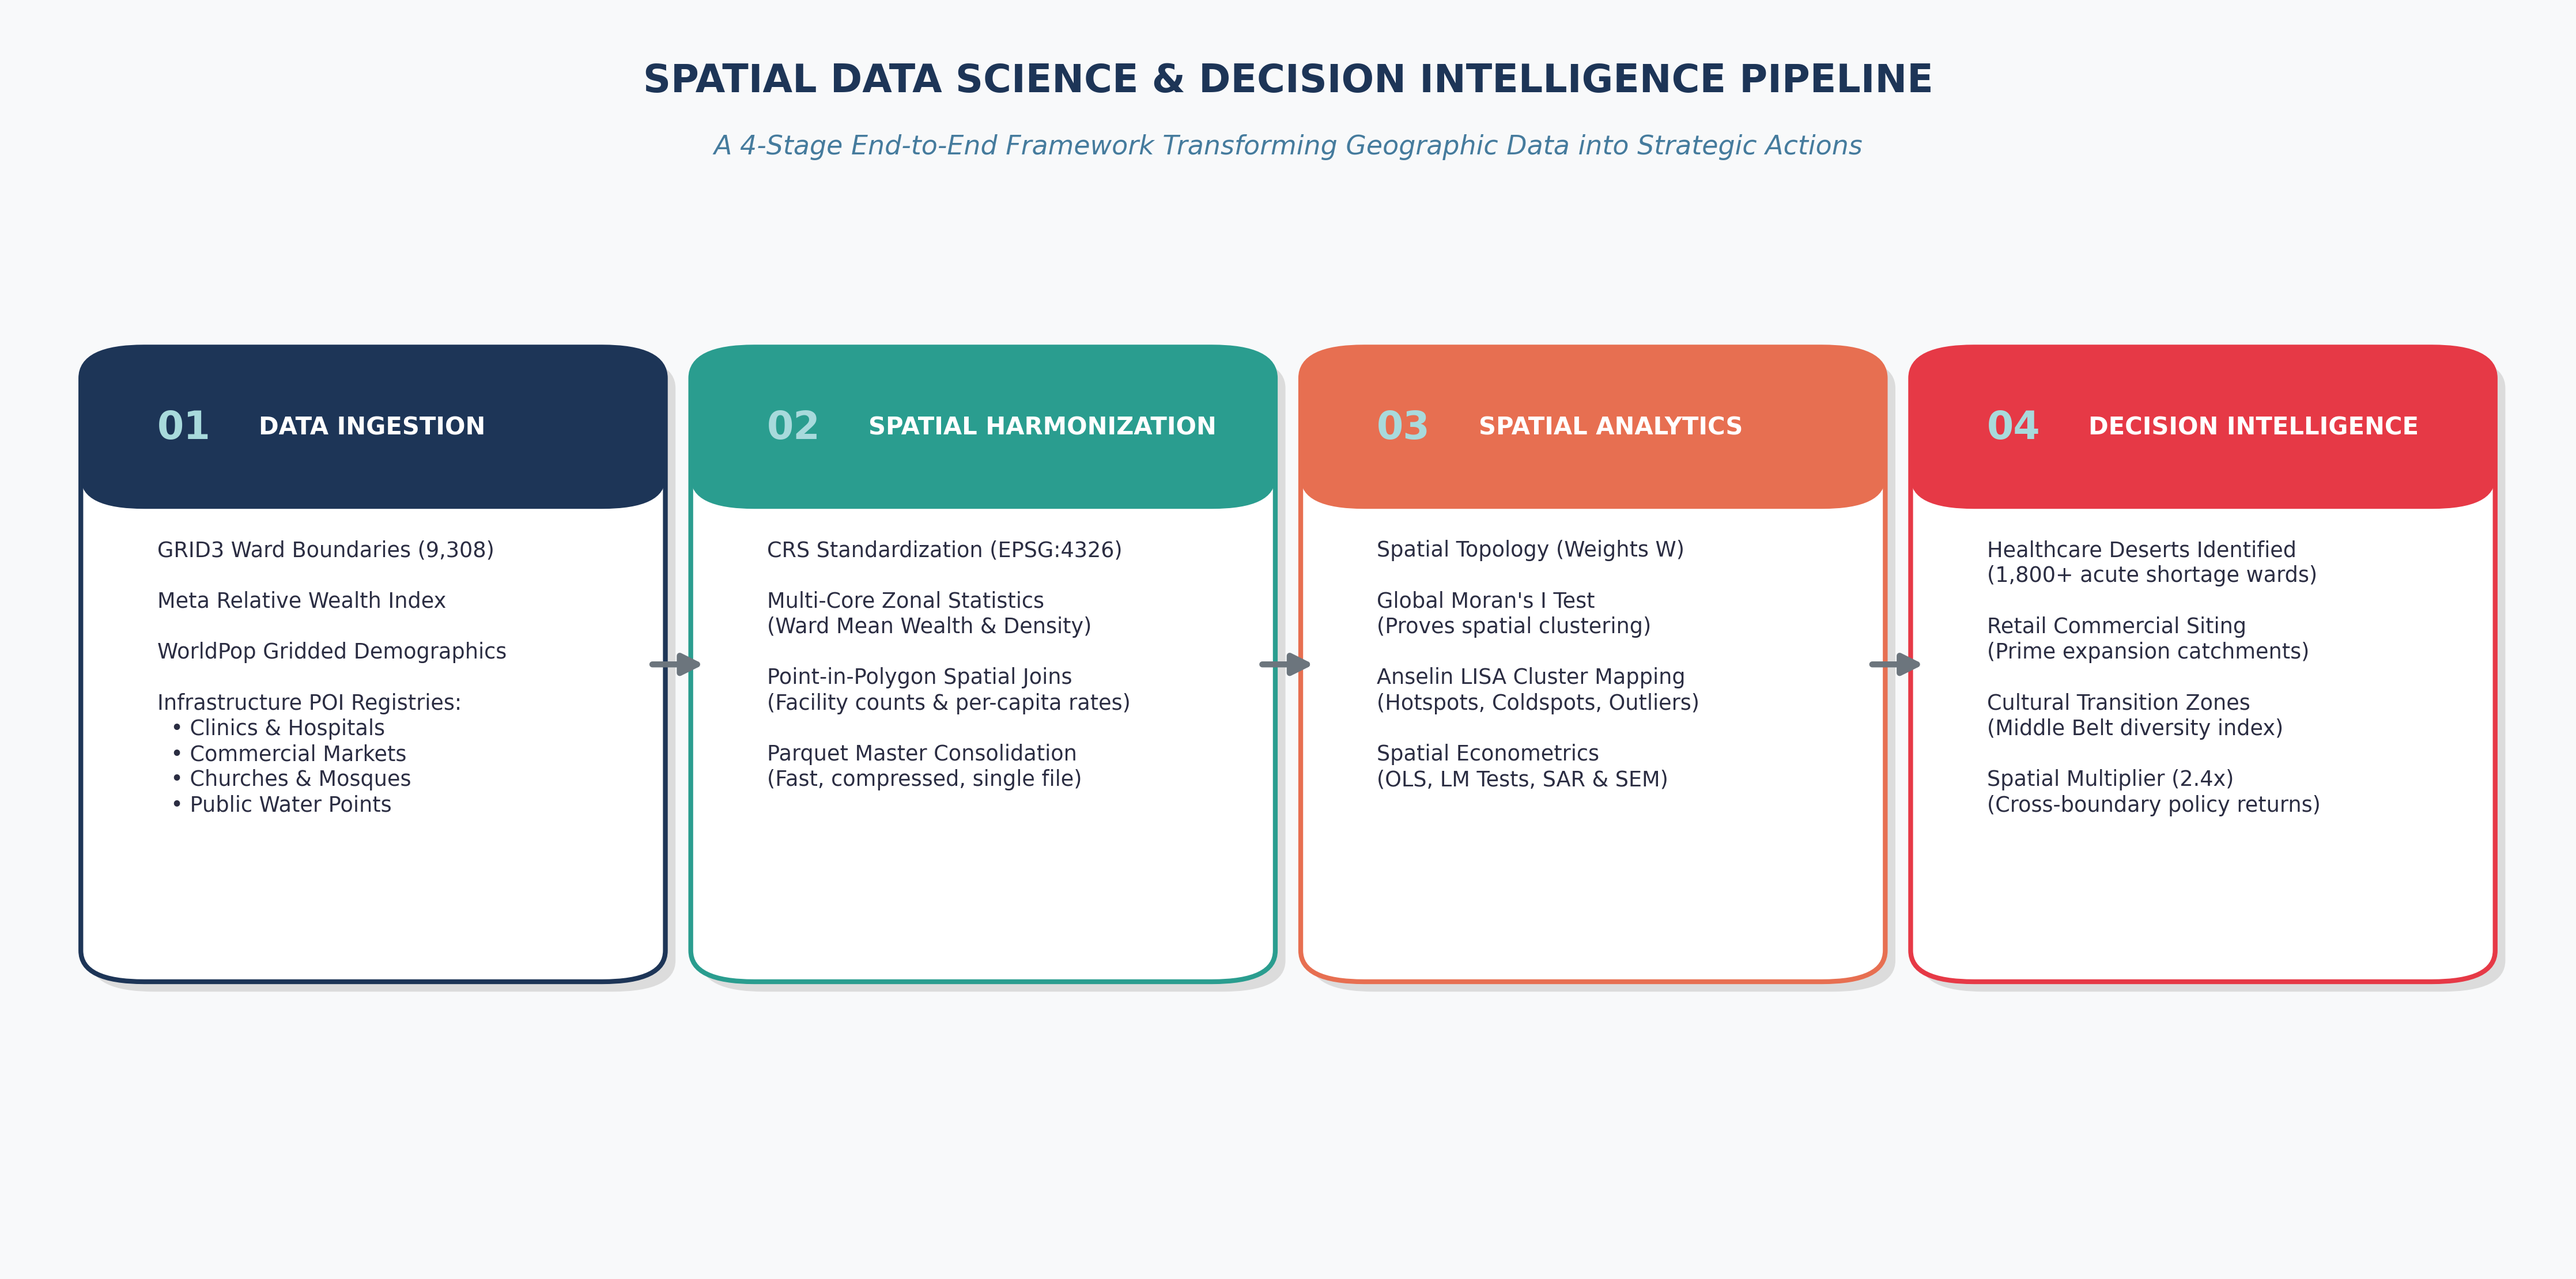
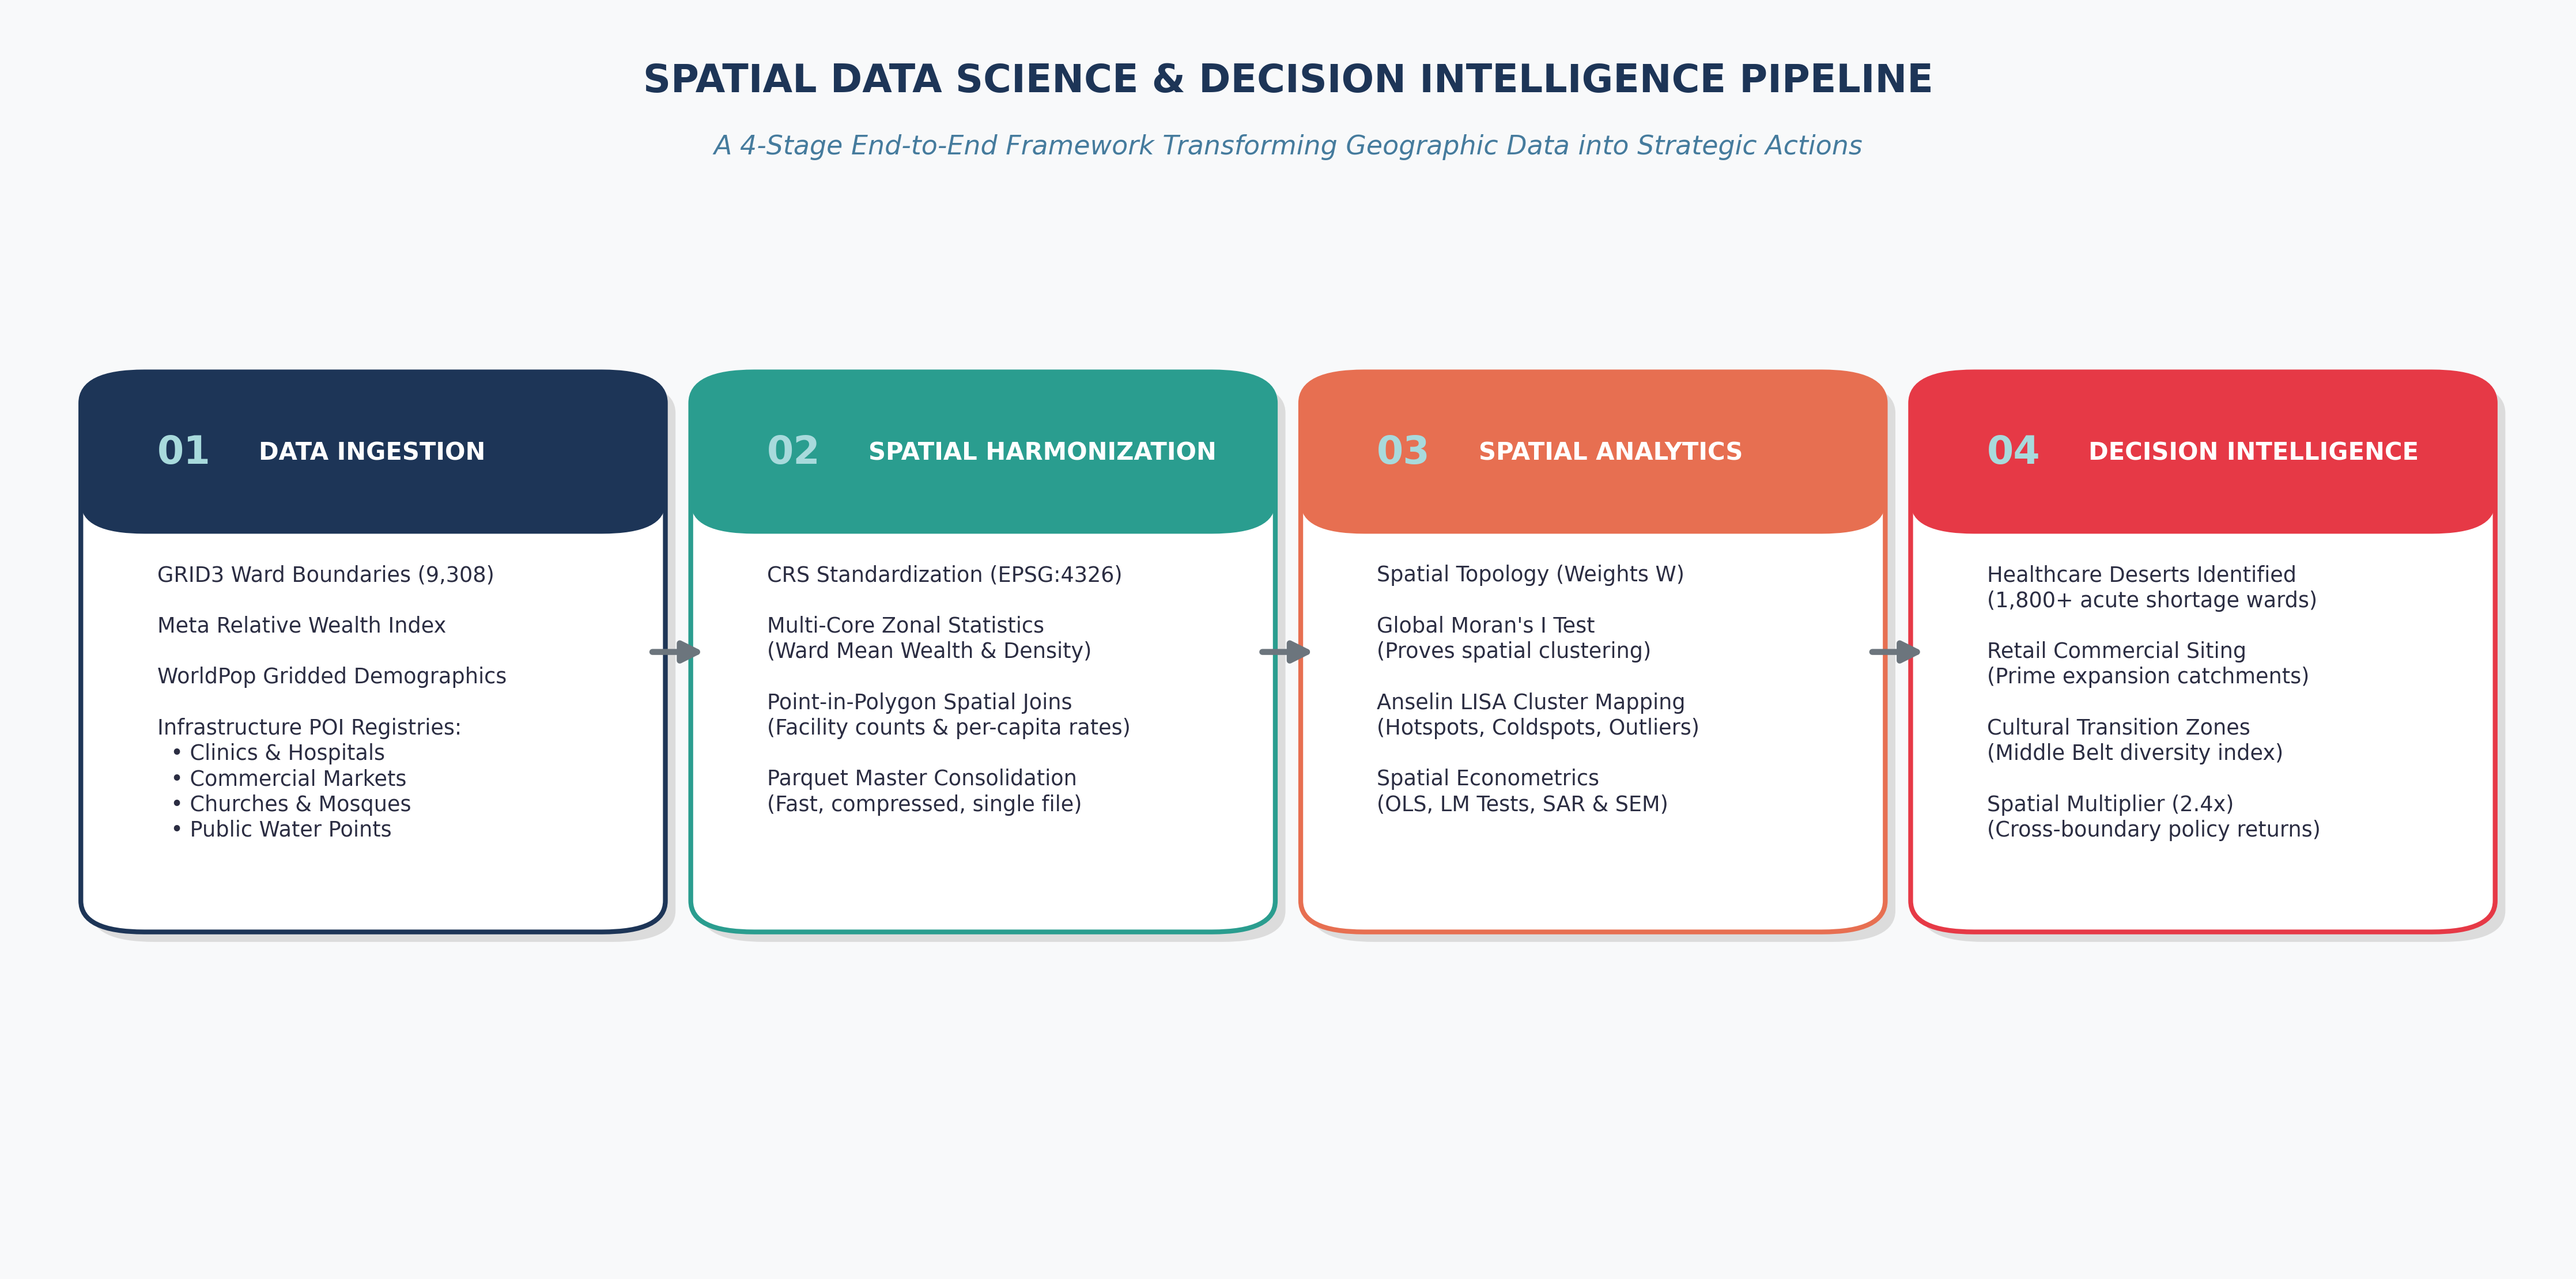
feat: embed data source URLs & academic citations in all 4 notebooks, compact flowchart boxes

diff --git a/scripts/build_masterclass_notebooks.py b/scripts/build_masterclass_notebooks.py
@@ -3,6 +3,26 @@ import nbformat as nbf
 
 os.makedirs('notebooks', exist_ok=True)
 
+DATA_SOURCES_AND_REFS = """\
+## Primary Data Sources & Key References
+
+### Primary Geospatial Data Sources
+- **Administrative Ward Boundaries:** GRID3 Nigeria Admin-3 Wards (9,308 polygons): [https://grid3.gov.ng/datasets/nigeria/administrative-boundaries](https://grid3.gov.ng/datasets/nigeria/administrative-boundaries)
+- **Relative Wealth Index (RWI):** Meta AI Research & UC Berkeley micro-wealth estimates: [https://data.humdata.org/dataset/relative-wealth-index](https://data.humdata.org/dataset/relative-wealth-index)
+- **Demographic Population Counts:** WorldPop 2025 Gridded Population Projections: [https://hub.worldpop.org/geodata/listing?id=29](https://hub.worldpop.org/geodata/listing?id=29)
+- **Points of Interest Registries:** GRID3 Nigeria Health Clinics, Markets, Water Points, Police, Religious Centers: [https://grid3.gov.ng/datasets](https://grid3.gov.ng/datasets)
+- **Disease Epidemiology:** Malaria Atlas Project (MAP) Plasmodium falciparum $Pf\\text{PR}_{2-10}$: [https://malariaatlas.org/](https://malariaatlas.org/)
+- **Electoral Infrastructure:** INEC Polling Units Location Registry: [https://irev.inecnigeria.org](https://irev.inecnigeria.org)
+
+### Methodological References & Literature
+1. **Anselin, L. (1988).** *Spatial Econometrics: Methods and Models*. Kluwer Academic Publishers.
+2. **Anselin, L. (1995).** Local Indicators of Spatial Association -- LISA. *Geographical Analysis*, 27(2), 93-115.
+3. **Chi, G., Fang, H., Chatterjee, S., & Blumenstock, J. E. (2022).** Micro-estimate of wealth for all low- and middle-income countries. *PNAS*, 119(3), e2113658119.
+4. **Rey, S. J., & Anselin, L. (2007).** PySAL: A Python library for spatial analytical methods. *The Review of Regional Studies*, 37(1), 5-27.
+5. **Tobler, W. R. (1970).** A computer movie simulating urban growth in the Detroit region. *Economic Geography*, 46(sup1), 234-240.
+6. **Weiss, D. J., et al. (2019).** Mapping the global prevalence, incidence, and mortality of Plasmodium falciparum, 2000-17. *The Lancet*, 394(10195), 322-331.
+"""
+
 # ==============================================================================
 # NOTEBOOK 1: MULTI-SECTOR ESDA & EPIDEMIOLOGY MASTERCLASS
 # ==============================================================================
@@ -528,6 +548,8 @@ plt.show()
 | **Low-High (Outlier)** | Municipal utility expansion; connecting excluded slum communities to city care. | Community retail shops, commuter transit sales points. | Environmental drainage remediation and larvicide application. |
 """))
 
+    cells.append(nbf.v4.new_markdown_cell(DATA_SOURCES_AND_REFS))
+
     nb['cells'] = cells
     out_path = 'notebooks/01_exploratory_spatial_data_analysis.ipynb'
     nbf.write(nb, out_path)
@@ -850,6 +872,8 @@ if 'malaria_prevalence_pct' in gdf.columns:
 2. **Healthcare Is an Economic & Epidemiological Stabilizer:** Clinic access protects against asset poverty and directly suppresses malaria parasite prevalence.
 """))
 
+    cells.append(nbf.v4.new_markdown_cell(DATA_SOURCES_AND_REFS))
+
     nb['cells'] = cells
     out_path = 'notebooks/02_spatial_statistics_modeling.ipynb'
     nbf.write(nb, out_path)
@@ -1106,6 +1130,8 @@ plt.show()
 1. **Precision Budgeting:** Fund allocation must shift from flat LGA-level grants to ward-level priority tiers.
 2. **Multi-Sector Bundling:** Interventions in Tier 1 wards must co-locate water boreholes, primary clinics, and micro-retail support.
 """))
+
+    cells.append(nbf.v4.new_markdown_cell(DATA_SOURCES_AND_REFS))
 
     nb['cells'] = cells
     out_path = 'notebooks/03_sectoral_decision_intelligence.ipynb'

diff --git a/scripts/build_master_handbook_notebook.py b/scripts/build_master_handbook_notebook.py
@@ -268,6 +268,27 @@ To explore each mathematical and methodological domain in comprehensive depth:
 | **[03_sectoral_decision_intelligence.ipynb](03_sectoral_decision_intelligence.ipynb)** | Spatial infrastructure inequality, Lorenz Curves, Gini coefficients, Bivariate Moran's $I$, Ward Priority Index (WPI), and Executive State Action Rosters. |
 """))
 
+# Cell 12: Markdown - Data Sources & Key References
+cells.append(nbf.v4.new_markdown_cell("""\
+## 7. Primary Data Sources & Key Academic References
+
+### Primary Geospatial Data Sources
+- **Administrative Ward Boundaries:** GRID3 Nigeria Admin-3 Wards (9,308 polygons): [https://grid3.gov.ng/datasets/nigeria/administrative-boundaries](https://grid3.gov.ng/datasets/nigeria/administrative-boundaries)
+- **Relative Wealth Index (RWI):** Meta AI Research & UC Berkeley micro-wealth estimates: [https://data.humdata.org/dataset/relative-wealth-index](https://data.humdata.org/dataset/relative-wealth-index)
+- **Demographic Population Counts:** WorldPop 2025 Gridded Population Projections: [https://hub.worldpop.org/geodata/listing?id=29](https://hub.worldpop.org/geodata/listing?id=29)
+- **Points of Interest Registries:** GRID3 Nigeria Health Clinics, Markets, Water Points, Police, Religious Centers: [https://grid3.gov.ng/datasets](https://grid3.gov.ng/datasets)
+- **Disease Epidemiology:** Malaria Atlas Project (MAP) Plasmodium falciparum $Pf\text{PR}_{2-10}$: [https://malariaatlas.org/](https://malariaatlas.org/)
+- **Electoral Infrastructure:** INEC Polling Units Location Registry: [https://irev.inecnigeria.org](https://irev.inecnigeria.org)
+
+### Key Academic Literature & Methodological References
+1. **Anselin, L. (1988).** *Spatial Econometrics: Methods and Models*. Dordrecht: Kluwer Academic Publishers.
+2. **Anselin, L. (1995).** Local Indicators of Spatial Association -- LISA. *Geographical Analysis*, 27(2), 93-115.
+3. **Chi, G., Fang, H., Chatterjee, S., & Blumenstock, J. E. (2022).** Micro-estimate of wealth for all low- and middle-income countries. *Proceedings of the National Academy of Sciences (PNAS)*, 119(3), e2113658119.
+4. **Rey, S. J., & Anselin, L. (2007).** PySAL: A Python library for spatial analytical methods. *The Review of Regional Studies*, 37(1), 5-27.
+5. **Tobler, W. R. (1970).** A computer movie simulating urban growth in the Detroit region. *Economic Geography*, 46(sup1), 234-240.
+6. **Weiss, D. J., et al. (2019).** Mapping the global prevalence, incidence, and mortality of Plasmodium falciparum, 2000-17. *The Lancet*, 394(10195), 322-331.
+"""))
+
 nb['cells'] = cells
 out_path = 'notebooks/00_master_spatial_decision_handbook.ipynb'
 nbf.write(nb, out_path)

diff --git a/scripts/export_architecture_diagram.py b/scripts/export_architecture_diagram.py
@@ -66,8 +66,8 @@ stages = [
 ]
 
 box_width = 0.20
-box_height = 0.48   # shorter cards — no dead space below text
-box_y = 0.24        # centred vertically in the figure
+box_height = 0.42   # compact cards tightly wrapping the content without dead space
+box_y = 0.28        # balanced vertical centering
 
 for i, s in enumerate(stages):
     # Shadow
